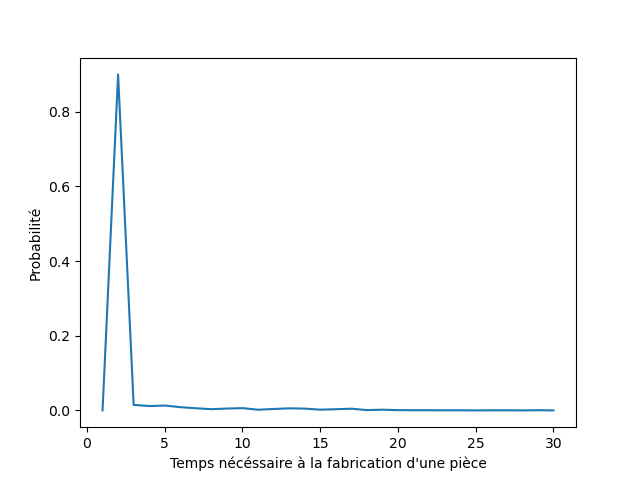
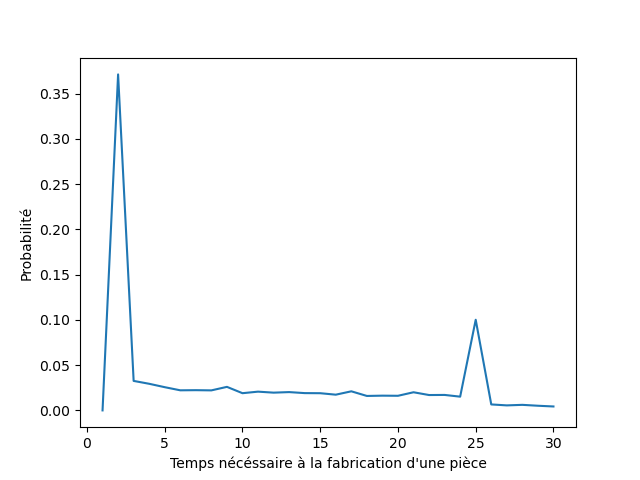
Making experiments 1a and 1b

diff --git a/main.py b/main.py
@@ -49,10 +49,10 @@ def main():
         print("--Click Q: Exit")
         choice = input("Pick your choice : ").upper()
         if (choice == "Q"):
-            #graph_proba_distrib_LT_plusieurs_simulations(historicSimulations)
+            graph_proba_distrib_LT_plusieurs_simulations(historicSimulations)
             #graph_work_in_progress(historicSimulations)
-            graph_blocking_probability_plusieurs_simulations(historicSimulations)
-            graph_stravation_probability_plusieurs_simulations(historicSimulations)
+            # graph_blocking_probability_plusieurs_simulations(historicSimulations)
+            # graph_stravation_probability_plusieurs_simulations(historicSimulations)
             plt.show()
             #graph_blocking_probability_plusieurs_simulations(historicSimulations)
             break

diff --git a/indicateurs_de_performance.py b/indicateurs_de_performance.py
@@ -75,9 +75,8 @@ def graph_proba_distrib_LT_plusieurs_simulations(ListeTableauSimulation):
     Delais = []
     Probas = []
     N = len(ListeTableauSimulation)
-    Tmax = len(ListeTableauSimulation[0])
     
-    for t in range(Tmax):
+    for t in range(30):
         Delais.append(t+1)
         Liste_Probas_a_t = []
         for k in range(N):
